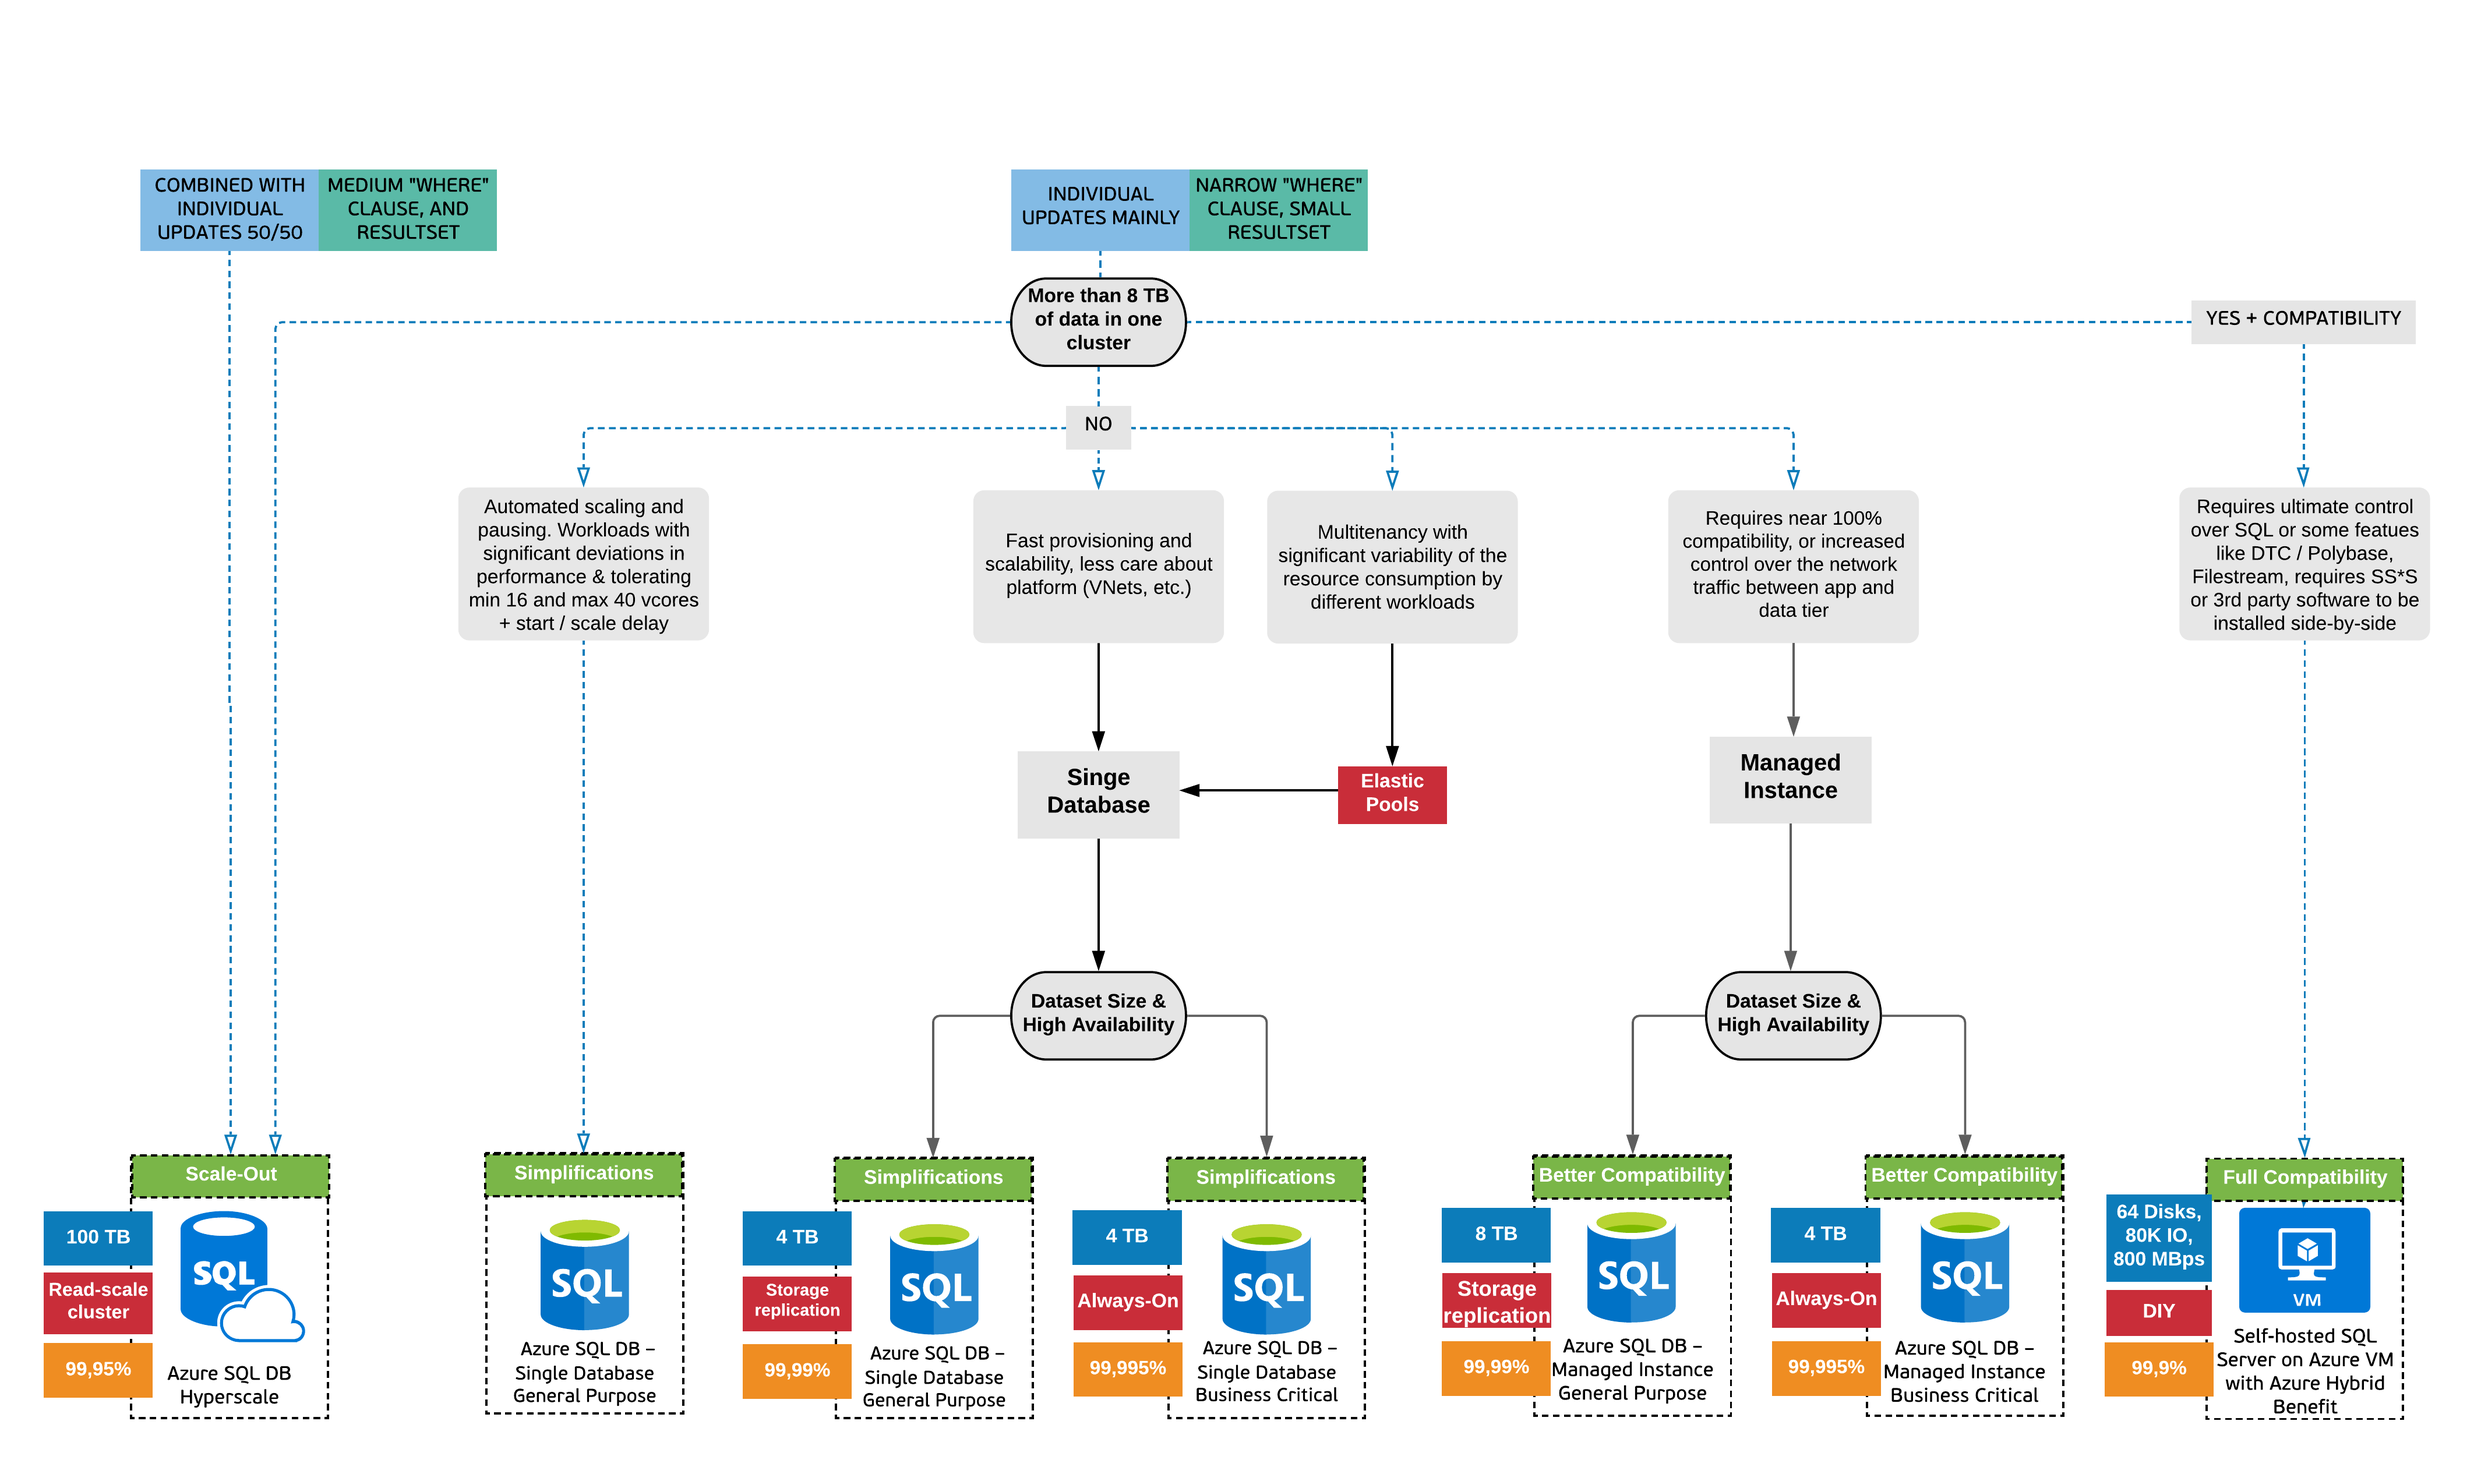
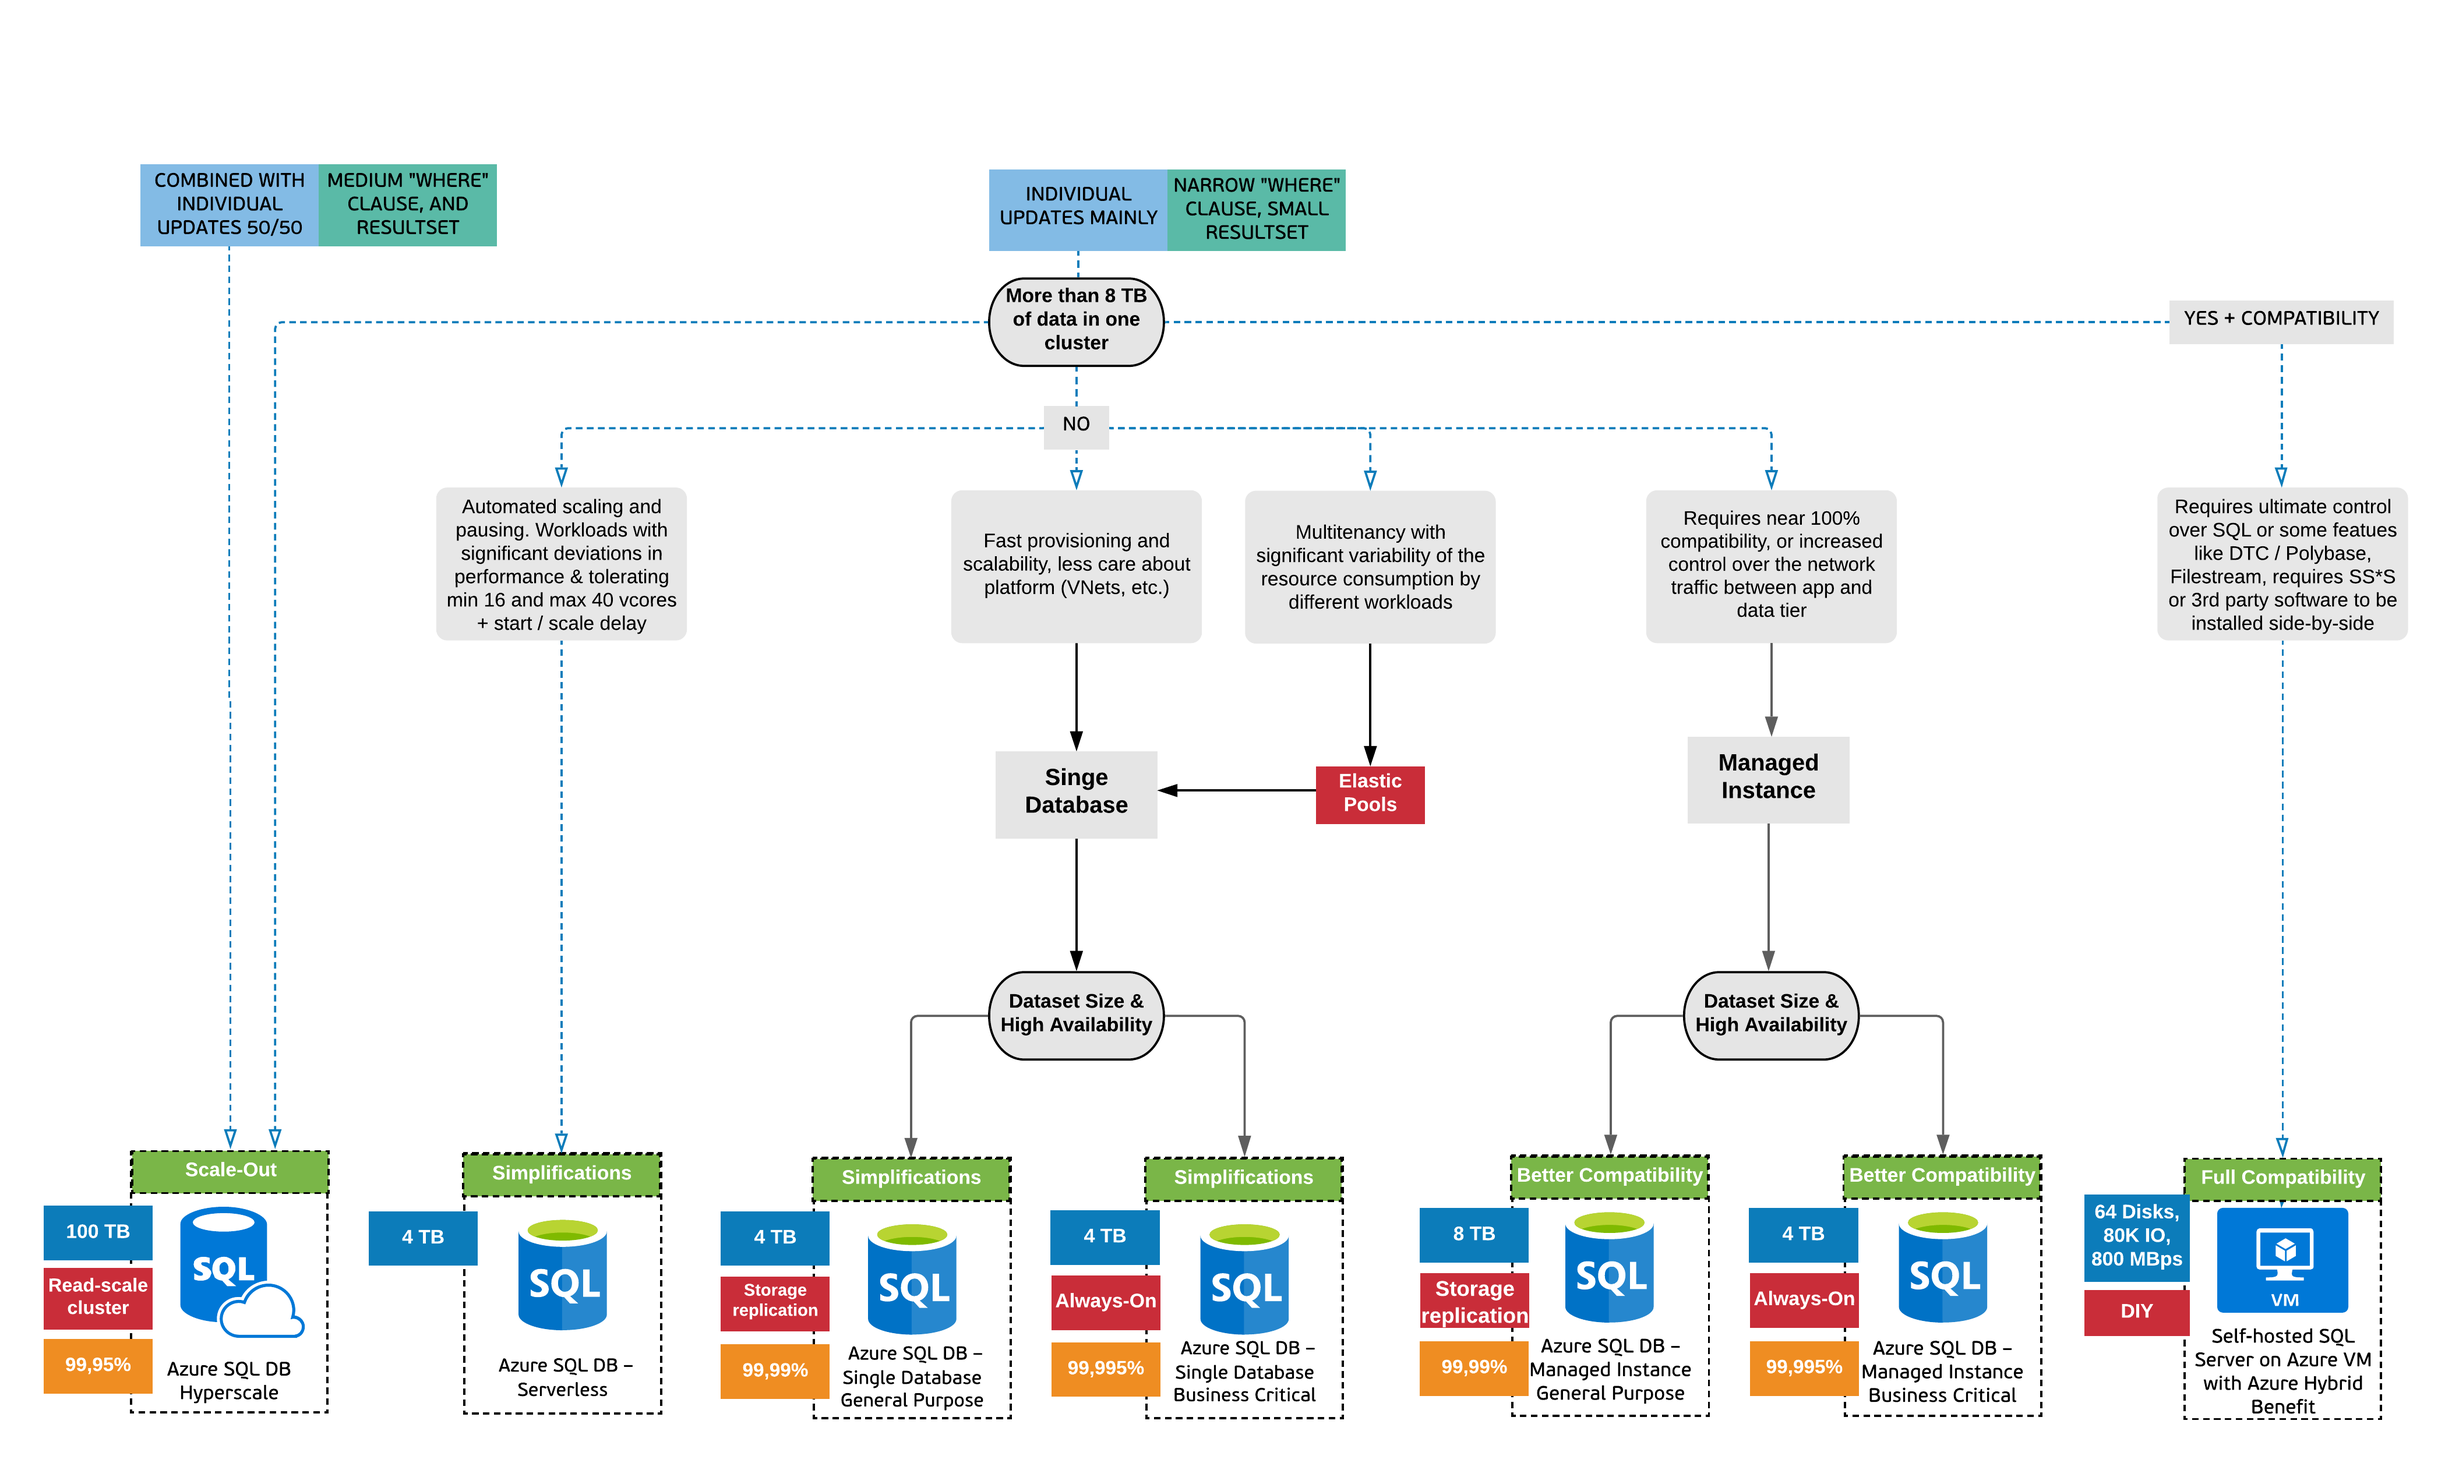
image map drill down sql database

diff --git a/html/azuresql.html b/html/azuresql.html
@@ -26,6 +26,26 @@
           <li><a href="https://github.com/albero-azure/albero/issues">Contact / Feedback</a></li>
         </ul> 
     </div> 
-    <img class="center-fit" src="/images/DTAzureSQL.png" alt="Azure SQL Database Decision Tree" style="min-width: 30%" />
+    <img src="/images/DTAzureSQL.png" alt="Albero Main Decision Tree Streaming" style="min-width: 30%" usemap="#map" />
+    <map name="map">
+      <area shape="rect" coords="2995, 2066, 3200, 2175" alt="BC MI Storage" href="https://azure.microsoft.com/en-us/pricing/details/sql-database/single/" />
+      <area shape="rect" coords="2434, 2071, 2626, 2174" alt="GP MI Storage" href="https://azure.microsoft.com/en-us/pricing/details/sql-database/single/" />
+      <area shape="rect" coords="1795, 2071, 1999, 2179" alt="BC Single Storage" href="https://azure.microsoft.com/en-us/pricing/details/sql-database/single/" />
+      <area shape="rect" coords="1230, 2074, 1431, 2180" alt="GP Single Storage" href="https://azure.microsoft.com/en-us/pricing/details/sql-database/single/" />
+      <area shape="rect" coords="629, 2074, 826, 2178" alt="Serverless Storage" href="https://azure.microsoft.com/en-us/pricing/details/sql-database/single/" />
+      <area shape="rect" coords="71, 2065, 267, 2169" alt="Hyperscale Storage" href="https://azure.microsoft.com/en-us/pricing/details/sql-database/single/" />
+      <area shape="rect" coords="3000, 2181, 3193, 2281" alt="BC MI HA" href="https://docs.microsoft.com/en-us/azure/azure-sql/database/high-availability-sla" />
+      <area shape="rect" coords="2431, 2182, 2628, 2284" alt="GP MI HA" href="https://docs.microsoft.com/en-us/azure/azure-sql/database/high-availability-sla" />
+      <area shape="rect" coords="1800, 2184, 1995, 2290" alt="BC Single HA" href="https://docs.microsoft.com/en-us/azure/azure-sql/database/high-availability-sla" />
+      <area shape="rect" coords="1233, 2189, 1432, 2291" alt="GP Single HA" href="https://docs.microsoft.com/en-us/azure/azure-sql/database/high-availability-sla" />
+      <area shape="rect" coords="67, 2173, 269, 2285" alt="Hyperscale HA" href="https://docs.microsoft.com/en-us/azure/azure-sql/database/high-availability-sla" />
+      <area shape="rect" coords="3004, 2294, 3201, 2402" alt="BC MI SLA" href="https://azure.microsoft.com/en-us/support/legal/sla/sql-database/v1_4/" />
+      <area shape="rect" coords="2433, 2299, 2627, 2402" alt="GP MI SLA" href="https://azure.microsoft.com/en-us/support/legal/sla/sql-database/v1_4/" />
+      <area shape="rect" coords="1805, 2298, 1994, 2406" alt="BC Single SLA" href="https://azure.microsoft.com/en-us/support/legal/sla/sql-database/v1_4/" />
+      <area shape="rect" coords="1233, 2300, 1433, 2408" alt="GP Single SLA" href="https://azure.microsoft.com/en-us/support/legal/sla/sql-database/v1_4/" />
+      <area shape="rect" coords="65, 2291, 269, 2398" alt="Hyperscale SLA" href="https://azure.microsoft.com/en-us/support/legal/sla/sql-database/v1_4/" />
+
+      
+    </map>
   </body>
 </html>
